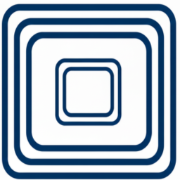
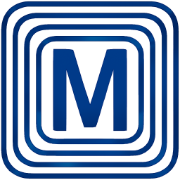
browser

diff --git a/app/layout.js b/app/layout.js
@@ -17,13 +17,13 @@ export default function RootLayout({ children }) {
     <html lang="ro" className={inter.variable}>
       <head>
         {/* Manifest PWA */}
-        <link rel="manifest" href="/manifest.json?v=3" />
+        <link rel="manifest" href="/manifest.json?v=4" />
 
         {/* Favicon & Apple Touch Icon */}
-        <link rel="icon" href="/favicon.ico?v=3" />
-        <link rel="icon" type="image/png" sizes="16x16" href="/favicon-16x16.png?v=3" />
-        <link rel="icon" type="image/png" sizes="32x32" href="/favicon-32x32.png?v=3" />
-        <link rel="apple-touch-icon" sizes="180x180" href="/apple-touch-icon.png?v=3" />
+        <link rel="icon" href="/favicon.ico?v=4" />
+        <link rel="icon" type="image/png" sizes="16x16" href="/favicon-16x16.png?v=4" />
+        <link rel="icon" type="image/png" sizes="32x32" href="/favicon-32x32.png?v=4" />
+        <link rel="apple-touch-icon" sizes="180x180" href="/apple-touch-icon.png?v=4" />
 
         {/* Theme color */}
         <meta name="theme-color" content="#003366" />

diff --git a/public/service-worker.js b/public/service-worker.js
@@ -1,13 +1,13 @@
-const CACHE_NAME = "matematica-app-v3";
+const CACHE_NAME = "matematica-app-v4";
 const FILES_TO_CACHE = [
   "/",
-  "/favicon.ico?v=3",
-  "/favicon-16x16.png?v=3",
-  "/favicon-32x32.png?v=3",
-  "/apple-touch-icon.png?v=3",
-  "/manifest.json?v=3",
-  "/icons/icon-192.png?v=3",
-  "/icons/icon-512.png?v=3"
+  "/favicon.ico?v=4",
+  "/favicon-16x16.png?v=4",
+  "/favicon-32x32.png?v=4",
+  "/apple-touch-icon.png?v=4",
+  "/manifest.json?v=4",
+  "/android-chrome-192x192.png?v=4",
+  "/android-chrome-512x512.png?v=4",
 ];
 
 // Instalare service worker și cache
